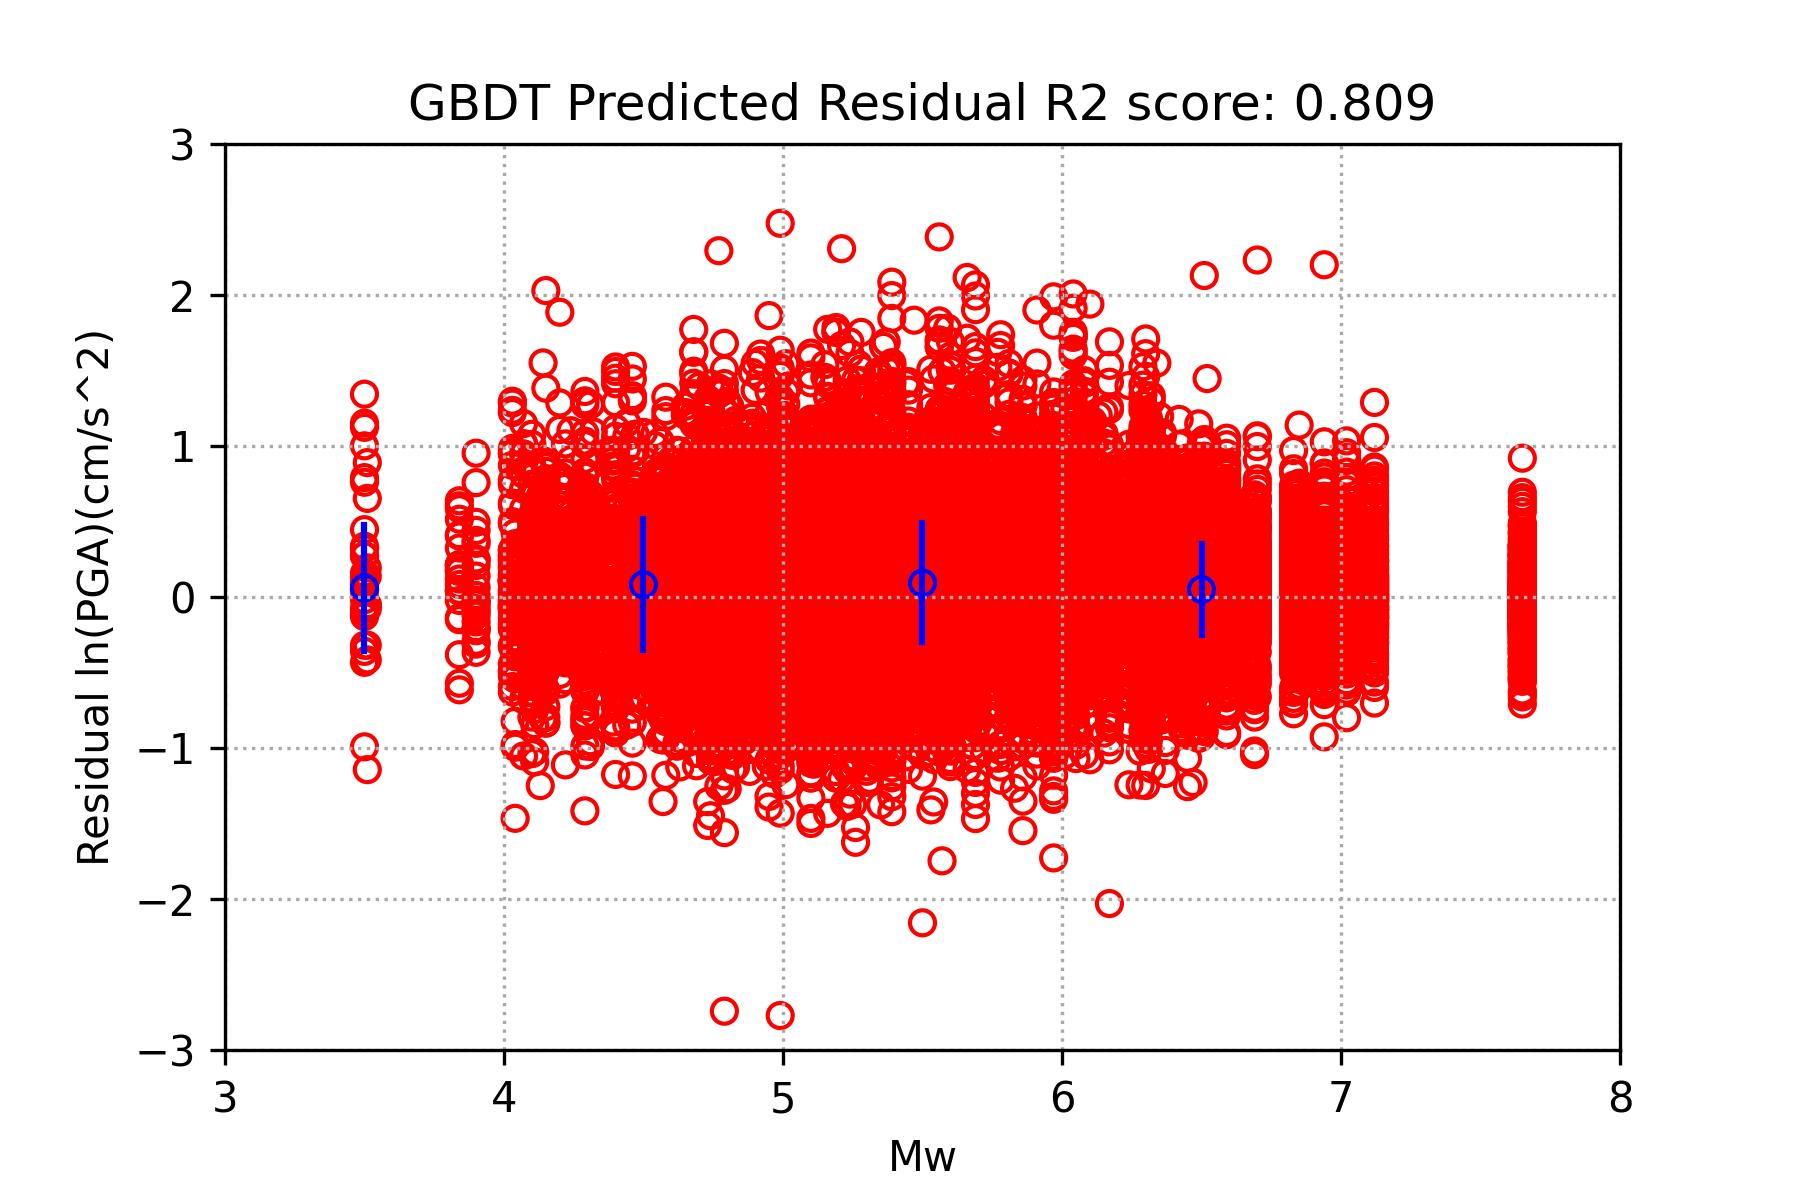
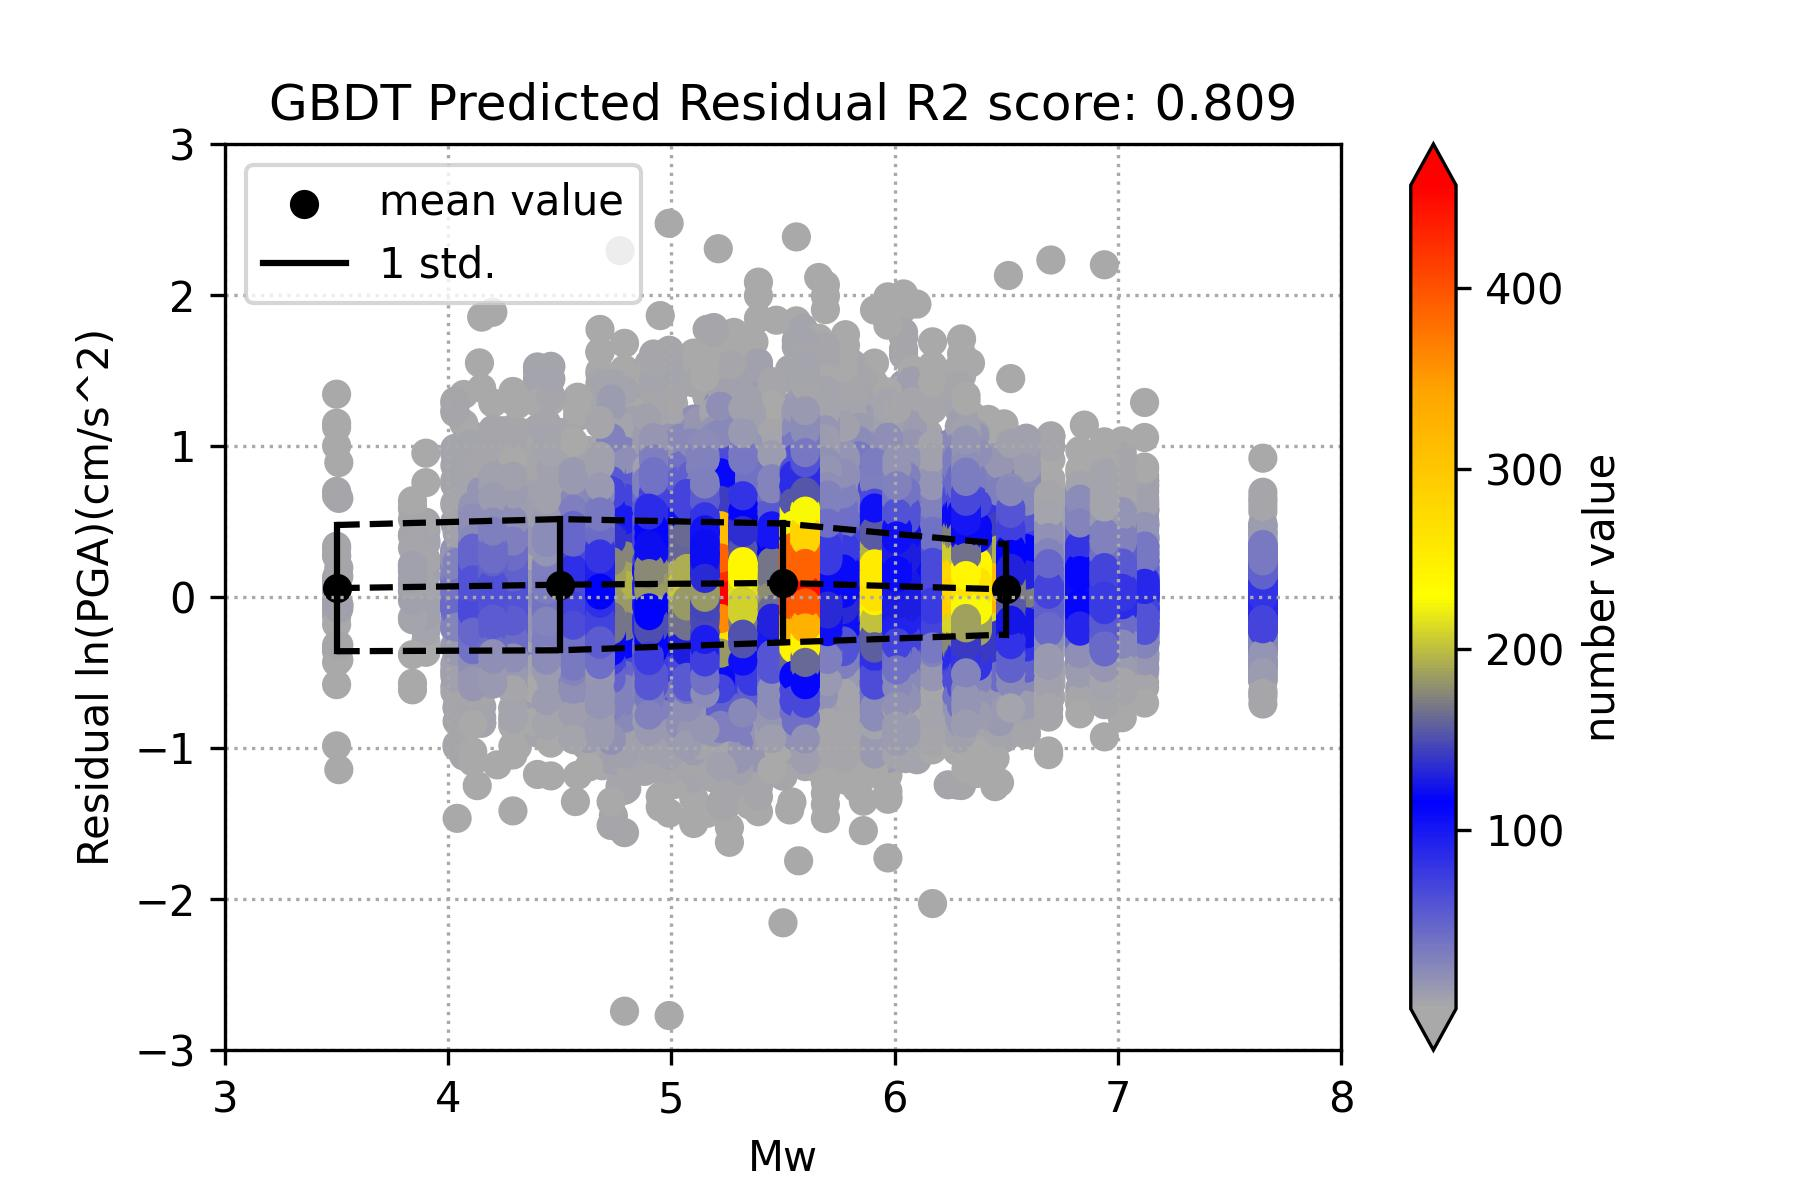
plt three models total figure

diff --git a/machine_learning/GBDT/GBDT_TSMIP.py b/machine_learning/GBDT/GBDT_TSMIP.py
@@ -11,9 +11,12 @@ target = "PGA"
 
 TSMIP_smogn_df = pd.read_csv(f"../../../TSMIP_smogn_{target}.csv")
 TSMIP_df = pd.read_csv(f"../../../TSMIP_FF_{target}.csv")
+DSCon = pd.read_csv(f"../../../Distance Scaling Condition.csv")
 model = dataprocess()
 after_process_SMOGN_data = model.preprocess(TSMIP_smogn_df, target)
 after_process_ori_data = model.preprocess(TSMIP_df, target)
+after_process_DSCon = model.preprocess(DSCon, target)
+
 result_SMOGN = model.split_dataset(after_process_SMOGN_data,
                                    f'ln{target}(gal)', True, 'lnVs30', 'MW',
                                    'lnRrup', 'fault.type', 'STA_Lon_X',
@@ -24,6 +27,9 @@ result_ori = model.split_dataset(after_process_ori_data, f'ln{target}(gal)',
 original_data = model.split_dataset(after_process_ori_data, f'ln{target}(gal)',
                                     False, 'lnVs30', 'MW', 'lnRrup',
                                     'fault.type', 'STA_Lon_X', 'STA_Lat_Y')
+DSCon_data = model.split_dataset(after_process_DSCon, f'ln{target}(gal)',
+                                 False, 'lnVs30', 'MW', 'lnRrup', 'fault.type',
+                                 'STA_Lon_X', 'STA_Lat_Y')
 score, feature_importances, fit_time, final_predict, ML_model = model.training(
     "GBDT", result_SMOGN[0], result_ori[1], result_SMOGN[2], result_ori[3])
 
@@ -33,18 +39,14 @@ originaldata_predicted_result = model.predicted_original(
 plot_something = plot_fig("Gradient Boosting Regression", "GBDT", "SMOGN",
                           target)
 plot_something.predicted_distribution(result_ori[1], result_ori[3],
-                                      final_predict, fit_time, score)
+                                       final_predict, fit_time, score)
 plot_something.residual(original_data[0], original_data[1],
                         originaldata_predicted_result, after_process_ori_data,
                         score)
-plot_something.measured_predict(original_data[1],
-                                originaldata_predicted_result, score)
-
-# minVs30 = 480
-# maxVs30 = 760
-# minMw = 7.0
-# maxMw = 8.0
-# faulttype = 1
-# plot_something.distance_scaling(original_data, originaldata_predicted_result,
-#                                 minVs30, maxVs30, minMw, maxMw, faulttype,
-#                                 score)
+plot_something.measured_predict(original_data[1], originaldata_predicted_result, score)
+for i in range(len(DSCon['MW'])):
+    Mw = DSCon['MW'][i]
+    Vs30 = DSCon['Vs30'][i]
+    faulttype = DSCon['fault.type'][i]
+    plot_something.distance_scaling(i, ML_model, DSCon_data, Vs30, Mw, faulttype,
+                                    score)

diff --git a/machine_learning/RF/RFR_TSMIP.py b/machine_learning/RF/RFR_TSMIP.py
@@ -11,9 +11,12 @@ target = "PGA"
 
 TSMIP_smogn_df = pd.read_csv(f"../../../TSMIP_smogn_{target}.csv")
 TSMIP_df = pd.read_csv(f"../../../TSMIP_FF_{target}.csv")
+DSCon = pd.read_csv(f"../../../Distance Scaling Condition.csv")
 model = dataprocess()
 after_process_SMOGN_data = model.preprocess(TSMIP_smogn_df, target)
 after_process_ori_data = model.preprocess(TSMIP_df, target)
+after_process_DSCon = model.preprocess(DSCon, target)
+
 result_SMOGN = model.split_dataset(after_process_SMOGN_data,
                                    f'ln{target}(gal)', True, 'lnVs30', 'MW',
                                    'lnRrup', 'fault.type', 'STA_Lon_X',
@@ -24,6 +27,9 @@ result_ori = model.split_dataset(after_process_ori_data, f'ln{target}(gal)',
 original_data = model.split_dataset(after_process_ori_data, f'ln{target}(gal)',
                                     False, 'lnVs30', 'MW', 'lnRrup',
                                     'fault.type', 'STA_Lon_X', 'STA_Lat_Y')
+DSCon_data = model.split_dataset(after_process_DSCon, f'ln{target}(gal)',
+                                 False, 'lnVs30', 'MW', 'lnRrup', 'fault.type',
+                                 'STA_Lon_X', 'STA_Lat_Y')
 score, feature_importances, fit_time, final_predict, ML_model = model.training(
     "RF", result_SMOGN[0], result_ori[1], result_SMOGN[2], result_ori[3])
 
@@ -32,18 +38,14 @@ originaldata_predicted_result = model.predicted_original(
 
 plot_something = plot_fig("Random Forest Regression", "RF", "SMOGN", target)
 plot_something.predicted_distribution(result_ori[1], result_ori[3],
-                                      final_predict, fit_time, score)
+                                       final_predict, fit_time, score)
 plot_something.residual(original_data[0], original_data[1],
                         originaldata_predicted_result, after_process_ori_data,
                         score)
-plot_something.measured_predict(original_data[1],
-                                originaldata_predicted_result, score)
-
-# minVs30 = 480
-# maxVs30 = 760
-# minMw = 7.0
-# maxMw = 8.0
-# faulttype = 1
-# plot_something.distance_scaling(original_data, originaldata_predicted_result,
-#                                 minVs30, maxVs30, minMw, maxMw, faulttype,
-#                                 score)
+plot_something.measured_predict(original_data[1], originaldata_predicted_result, score)
+for i in range(len(DSCon['MW'])):
+    Mw = DSCon['MW'][i]
+    Vs30 = DSCon['Vs30'][i]
+    faulttype = DSCon['fault.type'][i]
+    plot_something.distance_scaling(i, ML_model, DSCon_data, Vs30, Mw, faulttype,
+                                    score)
